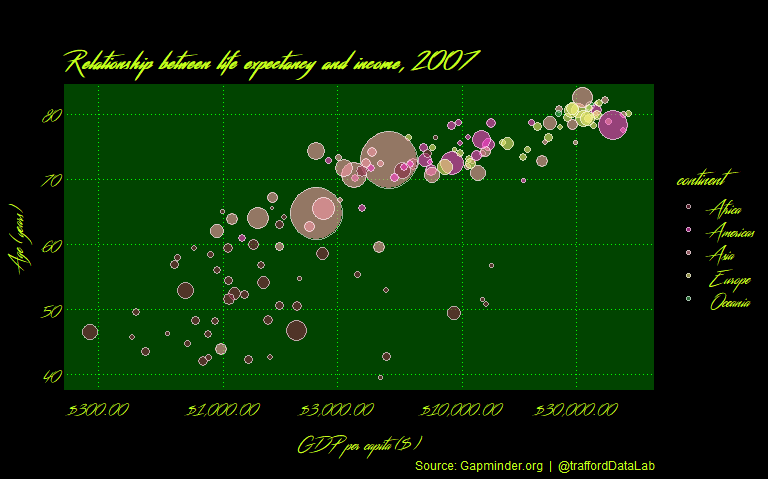
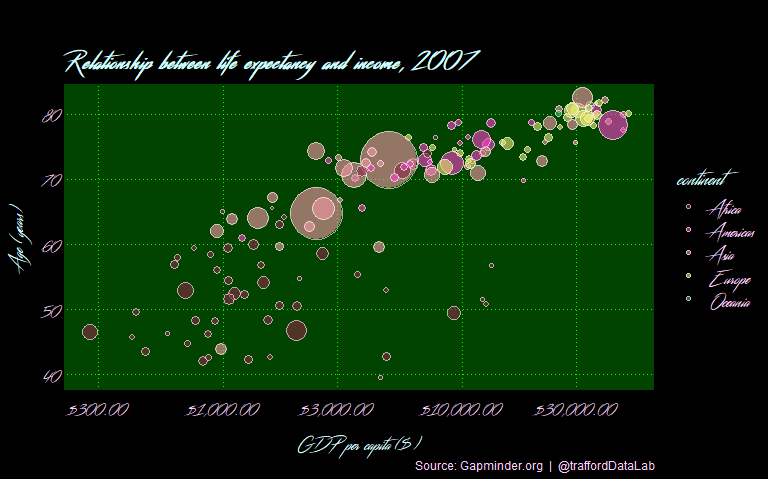
write meaningful commit message

diff --git a/Readme.md b/Readme.md
@@ -104,7 +104,9 @@ ggplot(midwest, aes(x=area, y=poptotal)) +
        y="Population", 
        x="Area", 
        title="New Retro Theme", 
-       caption = "Source: midwest") + new_retro() + scale_colour_newRetro()
+       caption = "Source: midwest") + 
+        new_retro() + 
+        scale_colour_newRetro()
 #> Warning: Removed 15 rows containing non-finite values (stat_smooth).
 #> Warning: Removed 15 rows containing missing values (geom_point).
 ```
@@ -124,7 +126,9 @@ ggplot(mpg, aes(class, cty)) +
              subtitle="City Mileage grouped by Class of vehicle",
              caption="Source: mpg",
              x="Class of Vehicle",
-             y="City Mileage") + jwz()
+             y="City Mileage") + 
+        jwz() +
+        scale_fill_jwz()
 ```
 
 ![](Readme_files/figure-markdown_github/jwz_01-1.png)
@@ -201,7 +205,7 @@ ggplot(filter(gapminder, year == 2007), aes(x = gdpPercap, y = lifeExp)) +
          x = "GDP per capita ($)",
          y = "Age (years)") +
     guides(size = FALSE) +
-    jwz(font = "Streamster", text.color = "#c3fe1b", subtitle.size = 16) + scale_fill_hyperBubble()
+    jwz(font = "Streamster", main.text.color = "#FFCCFF", sub.text.color = "#CCFFFF", subtitle.size = 16) + scale_fill_hyperBubble()
 ```
 
 ![](Readme_files/figure-markdown_github/jwz_02-1.png)
@@ -259,6 +263,24 @@ ggcorrplot(corr, hc.order = T,
 ```
 
 ![](Readme_files/figure-markdown_github/floralShoppe_02-1.png)
+
+### scatterplot mattrice
+
+``` r
+library(WVPlots) 
+
+PairPlot(iris, 
+         colnames(iris)[1:4], 
+         "Anderson's Iris Data -- 3 species", 
+         group_var = "Species") +
+        labs(caption = "Source: https://bit.ly/2N7tudH") + 
+                jwz() + 
+                scale_colour_hotlineBling()
+#> Scale for 'colour' is already present. Adding another scale for
+#> 'colour', which will replace the existing scale.
+```
+
+![](Readme_files/figure-markdown_github/unnamed-chunk-3-1.png)
 
 If you need to use a color gradient take a look at the html color codes for the palette in the `Readme_files` folder and insert your choice in `low` and `high`.
 
